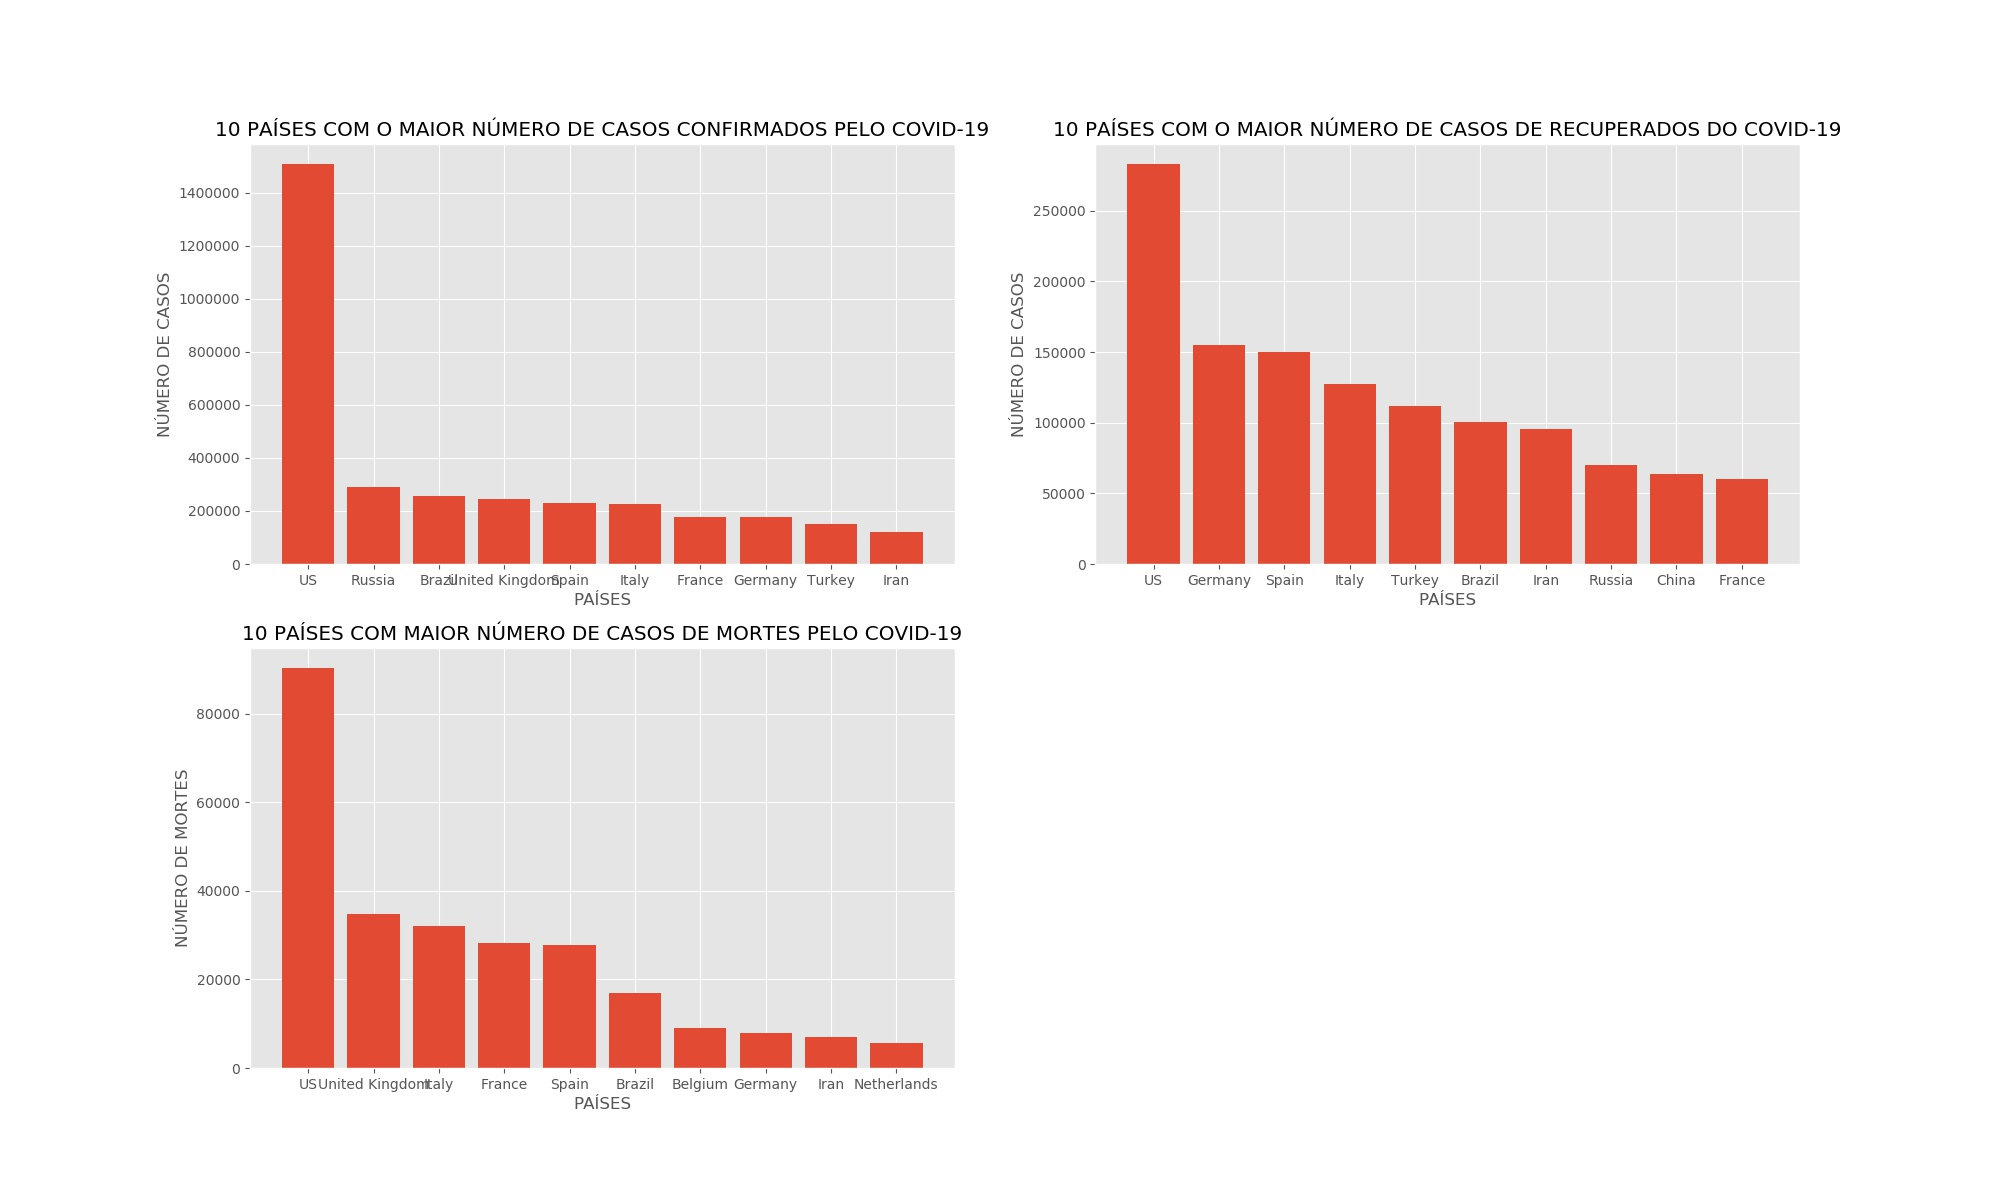
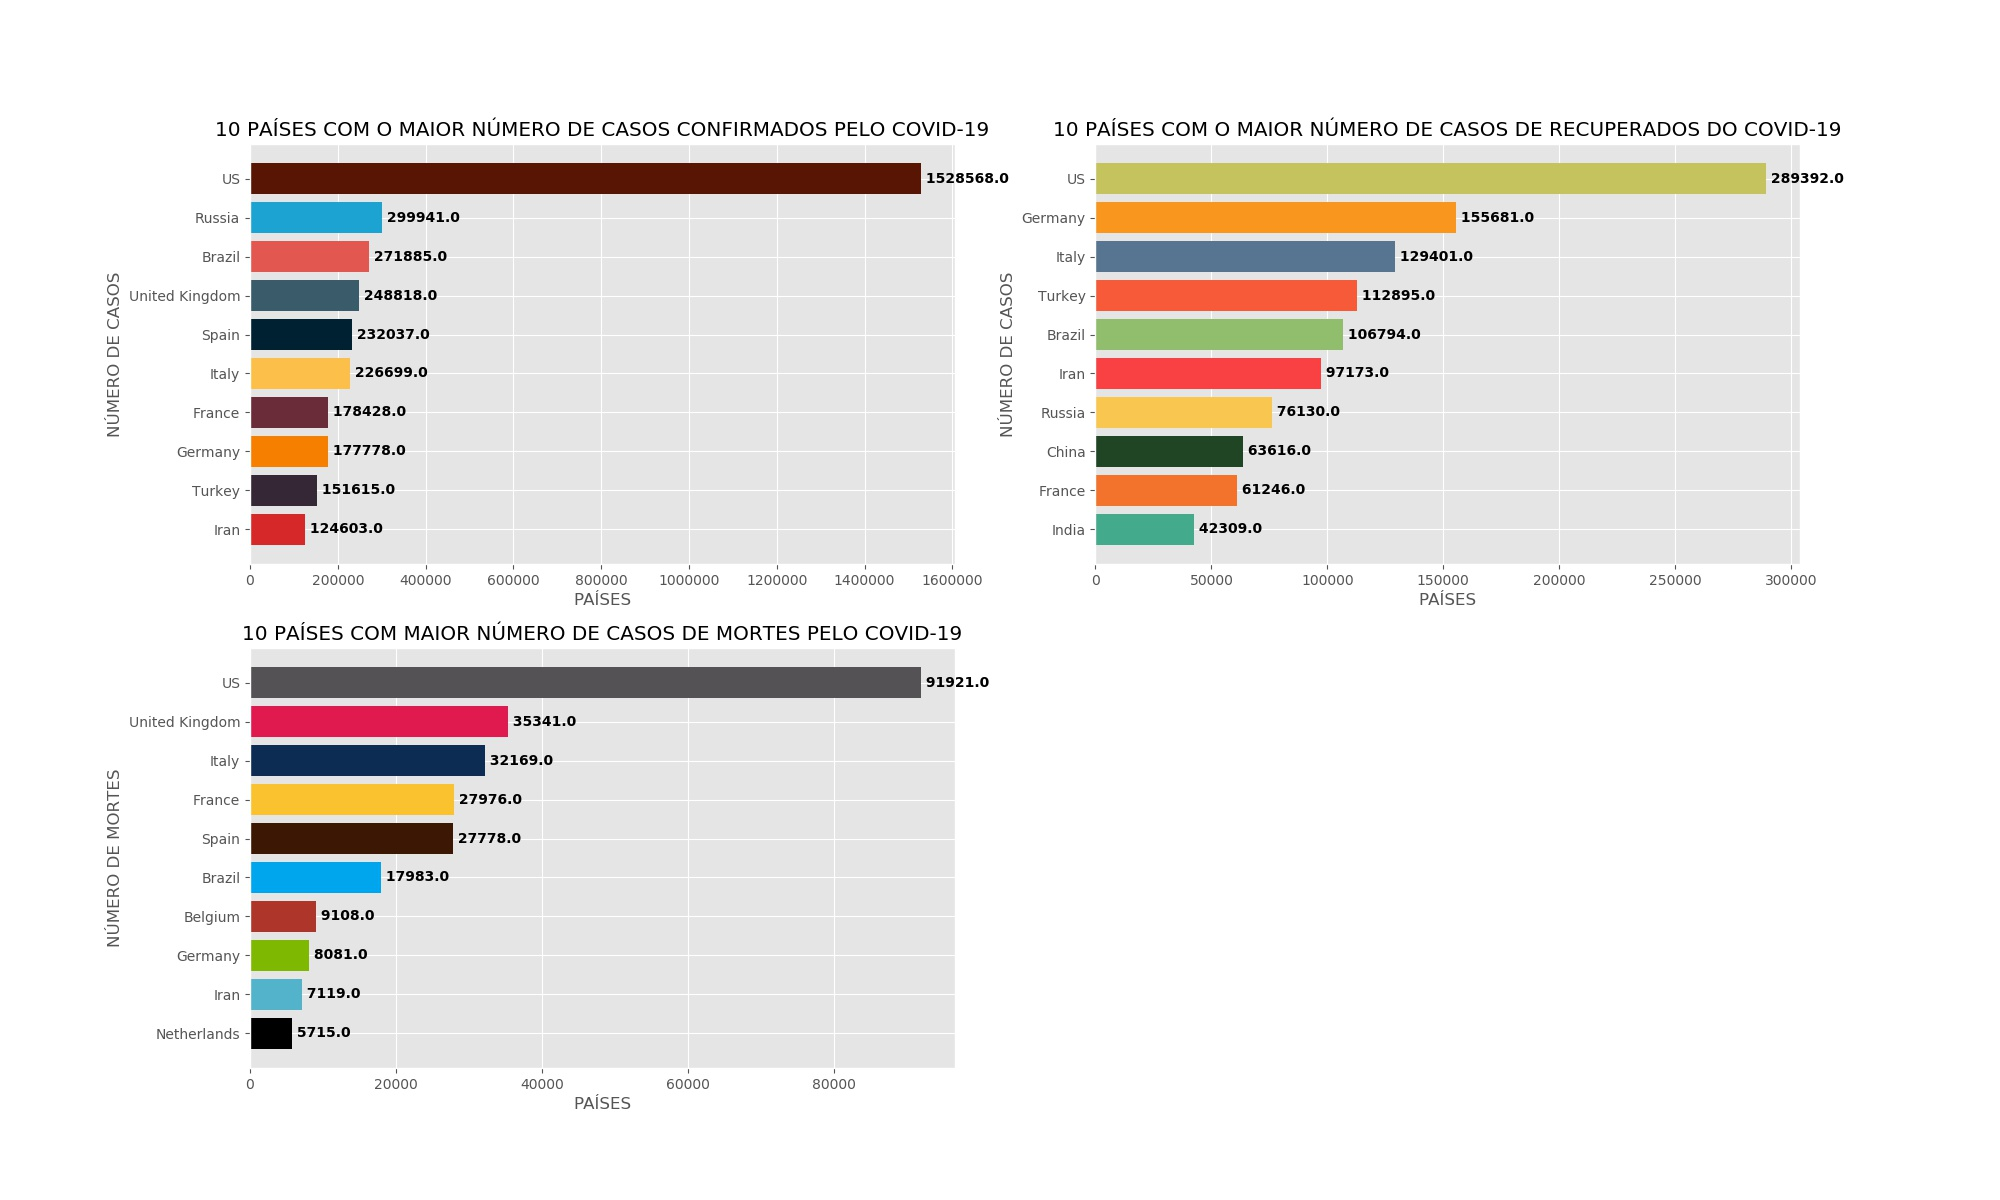
style adjustments

Changed region(s): [[0.496, 0.1233, 0.93, 0.4933], [0.062, 0.555, 0.496, 0.925], [0.062, 0.1233, 0.496, 0.4933]]

diff --git a/generatesGraph.py b/generatesGraph.py
@@ -1,10 +1,20 @@
+import matplotlib
 import pandas as pd
 import numpy as np
 import matplotlib.pyplot as plt
 
 
+
 #reading git data
 data = pd.read_csv("https://raw.githubusercontent.com/datasets/covid-19/master/data/time-series-19-covid-combined.csv")
+
+
+
+#colors            0          1         2          3           4         5          6          7          8          9
+colorOne =   ['#D62828', '#362736', '#F77F00', '#6B2C39', '#FCBF49', '#002132', '#3A5C6A', '#E25850', '#1CA3D1', '#581503']
+colorTwo =   ['#43AA8B', '#F3722C', '#204525', '#F9C74F', '#F94144', '#90BE6D', '#F65A38', '#577590', '#F8961E', '#C5C35E']
+colorThree = ['#000000', '#53B3CB', '#7FB800', '#AD352A', '#00A6ED', '#3C1804', '#F9C22E', '#0D2C54', '#E01A4F', '#545255']
+
 
 print ('Primeiros 3 itens da lista:')
 print (data.head(3))
@@ -18,10 +28,11 @@ Confirmed cases:
 """
 
 #classification of data by date and number of confirmed cases
-cases = data.sort_values(['Date', 'Confirmed'], ascending=False).head(10)
+casesIn = data.sort_values(['Date', 'Confirmed'], ascending=False).head(10)
+cases = casesIn.sort_values(['Date', 'Confirmed']).tail(10)
 
 print ("\nlista dos 10 países com maior número de casos confirmados pelo Covid-19:".upper())
-print(cases)
+print(casesIn)
 
 countryCases = cases['Country/Region']
 confirmed = cases['Confirmed']
@@ -30,49 +41,63 @@ plt.style.use("ggplot")
 plt.figure(figsize=(20, 12))
 
 plt.subplot(2, 2, 1)
-plt.bar(countryCases, confirmed)
+plt.barh(countryCases, confirmed, color=colorOne)
 plt.title('10 países com o maior número de casos confirmados pelo Covid-19'.upper())
 plt.ylabel('Número de Casos'.upper())
 plt.xlabel('Países'.upper())
 
 
+for i, v in enumerate(confirmed):
+    plt.text(v, i, " "+str(v), va='center', fontweight='bold')
+
+
 #classification of data by date and number of recovered cases
 
-recovered = data.sort_values(['Date', 'Recovered'], ascending=False).head(10)
+recoveredIn = data.sort_values(['Date', 'Recovered'], ascending=False).head(10)
+recovered = recoveredIn.sort_values(['Date', 'Recovered']).tail(10)
 
 print ("\nlista dos 10 países com maior número de casos de recuperados do Covid-19:".upper())
-print(recovered)
+print(recoveredIn)
 
 countryRecovered = recovered['Country/Region']
 confirmedRecovered = recovered['Recovered']
 
 
 plt.subplot(2, 2, 2)
-plt.bar(countryRecovered, confirmedRecovered)
+plt.barh(countryRecovered, confirmedRecovered, color=colorTwo)
 plt.title('10 países com o maior número de casos de recuperados do Covid-19'.upper())
 plt.ylabel('Número de Casos'.upper())
 plt.xlabel('Países'.upper())
 
 
+for i, v in enumerate(confirmedRecovered):
+    plt.text(v, i, " "+str(v), va='center', fontweight='bold')
+
+
 #classification of data by date and number of deaths
 
-deaths = data.sort_values(['Date', 'Deaths'], ascending = False).head(10)
+deathsIn = data.sort_values(['Date', 'Deaths'], ascending=False).head(10)
+deaths = deathsIn.sort_values(['Date', 'Deaths']).tail(10)
 
 
 print ("\nlista dos 10 países com maior número de casos de mortes pelo Covid-19:".upper())
-print(deaths)
+print(deathsIn)
 
 countryDeaths = deaths['Country/Region']
 confirmedDeaths = deaths['Deaths']
 
 
 plt.subplot(2, 2, 3)
-plt.bar(countryDeaths, confirmedDeaths)
+plt.barh(countryDeaths, confirmedDeaths, color=colorThree)
 plt.title('10 países com maior número de casos de mortes pelo Covid-19'.upper())
 plt.ylabel('Número de Mortes'.upper())
 plt.xlabel('Países'.upper())
 
+
+for i, v in enumerate(confirmedDeaths):
+    plt.text(v, i, " "+str(v), va='center', fontweight='bold')
+
+
 plt.savefig('confirmed.jpg')
 plt.tight_layout()
 plt.show()
-
